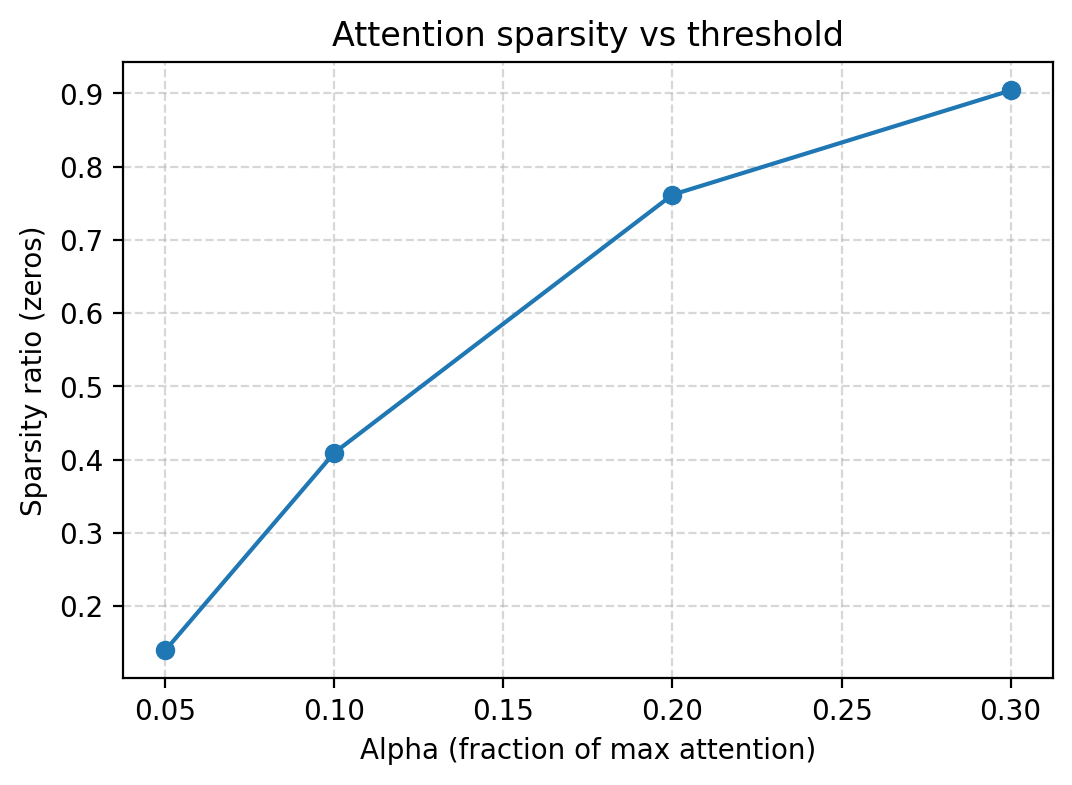
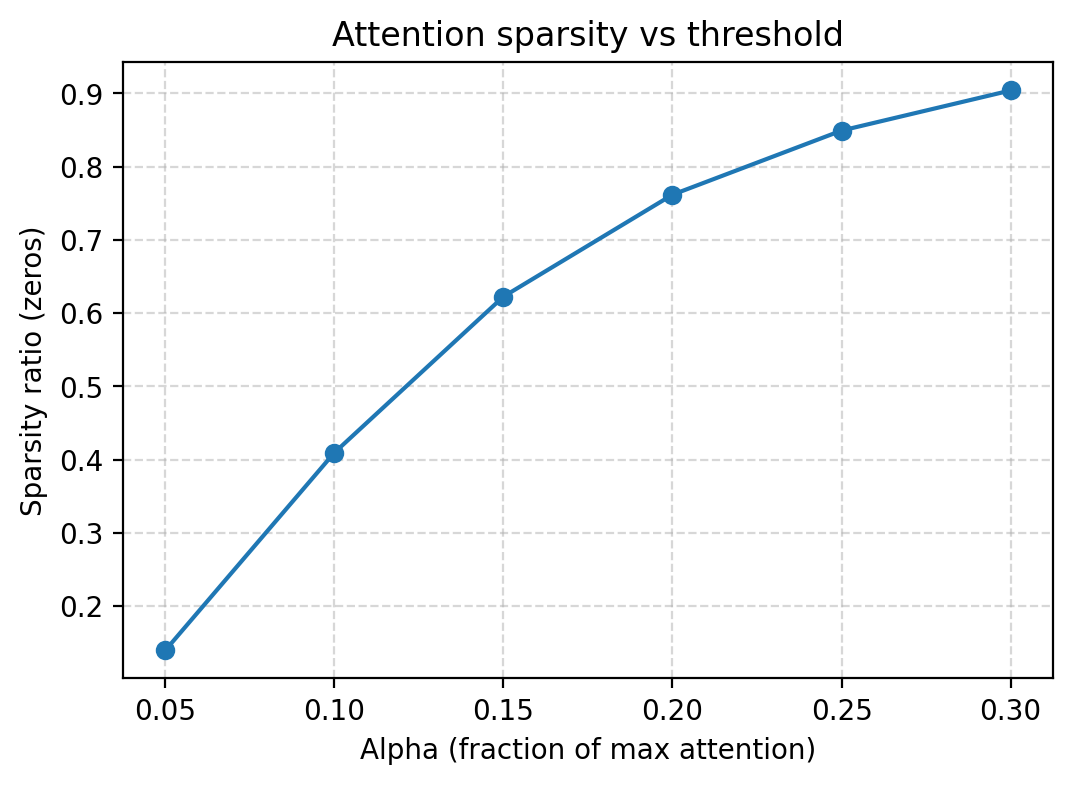
Add dynamic mask GIF + Pareto teaser scripts and visuals

Changed region(s): [[0.3386, 0.2446, 0.6157, 0.5503], [0.6465, 0.1223, 0.9235, 0.2446], [0.3078, 0.5503, 0.3386, 0.5809]]

diff --git a/python/pareto_prescreener.py b/python/pareto_prescreener.py
@@ -1,0 +1,94 @@
+"""
+Software-only Pareto teaser: sweep thresholds (alpha) and compute
+true sparsity, predicted sparsity (upper-bound mask), and IoU.
+
+Outputs:
+- CSV: docs/pareto_prescreener.csv
+- Plot: docs/img/pareto_prescreener.png (IoU vs predicted sparsity)
+"""
+
+import argparse
+import csv
+from pathlib import Path
+
+import matplotlib.pyplot as plt
+import numpy as np
+
+
+def parse_args():
+    p = argparse.ArgumentParser()
+    p.add_argument("--npz", required=True, help="Path to attention npz")
+    p.add_argument(
+        "--alpha-list",
+        type=str,
+        default="0.05,0.1,0.15,0.2,0.25,0.3",
+        help="Comma list of alphas (fraction of per-sample/layer/head max)",
+    )
+    p.add_argument("--csv-out", type=str, default="docs/pareto_prescreener.csv")
+    p.add_argument("--plot-out", type=str, default="docs/img/pareto_prescreener.png")
+    return p.parse_args()
+
+
+def compute_masks(attn, alpha):
+    max_vals = attn.max(axis=(-1, -2), keepdims=True)
+    true_mask = attn > (alpha * max_vals)
+
+    row_l1 = np.abs(attn).sum(axis=-1, keepdims=True)
+    col_l1 = np.abs(attn).sum(axis=-2, keepdims=True)
+    ub = row_l1 * col_l1
+    ub_max = ub.max(axis=(-1, -2), keepdims=True)
+    pred_mask = ub > (alpha * ub_max)
+    return true_mask, pred_mask
+
+
+def main():
+    args = parse_args()
+    attn = np.load(args.npz)["attn"]  # shape (N, L, H?, S, S)
+    # Merge optional head dim into samples dimension for simplicity
+    if attn.ndim == 5:
+        N, L, H, S, _ = attn.shape
+        attn = attn.reshape(N * L * H, S, S)
+    elif attn.ndim == 4:
+        N, L, S, _ = attn.shape
+        attn = attn.reshape(N * L, S, S)
+    else:
+        raise ValueError(f"Unexpected attention ndim {attn.ndim}")
+
+    alphas = [float(x) for x in args.alpha_list.split(",")]
+
+    rows = [("alpha", "true_sparsity", "pred_sparsity", "iou")]
+    pts = []
+    for alpha in alphas:
+        true_mask, pred_mask = compute_masks(attn, alpha)
+        iou = (np.logical_and(true_mask, pred_mask).sum()) / (
+            np.logical_or(true_mask, pred_mask).sum()
+        )
+        true_spars = 1.0 - true_mask.mean()
+        pred_spars = 1.0 - pred_mask.mean()
+        rows.append((alpha, true_spars, pred_spars, iou))
+        pts.append((pred_spars, iou, alpha))
+
+    Path(args.csv_out).parent.mkdir(parents=True, exist_ok=True)
+    with open(args.csv_out, "w", newline="") as f:
+        csv.writer(f).writerows(rows)
+
+    # Plot IoU vs predicted sparsity
+    plt.figure(figsize=(5, 4))
+    for pred_s, iou, alpha in pts:
+        plt.scatter(pred_s, iou, label=f"α={alpha}")
+        plt.text(pred_s + 0.01, iou, f"{alpha}", fontsize=8)
+    plt.xlabel("Predicted sparsity (fraction zeros)")
+    plt.ylabel("Mask IoU (pred vs true)")
+    plt.title("Prescreener trade-off (software)")
+    plt.grid(True, ls="--", alpha=0.5)
+    plt.ylim(0, 1.0)
+    plt.xlim(0, 1.0)
+    plt.legend()
+    Path(args.plot_out).parent.mkdir(parents=True, exist_ok=True)
+    plt.savefig(args.plot_out, dpi=200, bbox_inches="tight")
+    print(f"Wrote CSV to {args.csv_out}")
+    print(f"Wrote plot to {args.plot_out}")
+
+
+if __name__ == "__main__":
+    main()

diff --git a/python/make_mask_gif.py b/python/make_mask_gif.py
@@ -1,0 +1,82 @@
+"""
+Create an animated GIF showing how the prescreener mask changes per input.
+
+Frames: side-by-side attention heatmap and predicted mask for each sample.
+Supports attention dumps with shape (N,L,H,S,S) or (N,L,S,S).
+"""
+
+import argparse
+import io
+from pathlib import Path
+
+import imageio.v2 as imageio
+import matplotlib.pyplot as plt
+import numpy as np
+
+
+def parse_args():
+    p = argparse.ArgumentParser()
+    p.add_argument("--npz", required=True, help="Path to attention npz")
+    p.add_argument("--layer", type=int, default=0)
+    p.add_argument("--head", type=int, default=0)
+    p.add_argument("--alpha", type=float, default=0.1)
+    p.add_argument("--samples", type=int, default=16, help="Number of samples to animate")
+    p.add_argument("--start", type=int, default=0, help="Starting sample index")
+    p.add_argument("--out", type=str, default="docs/img/attn_mask_animation.gif")
+    return p.parse_args()
+
+
+def get_slice(attn, s, layer, head):
+    if attn.ndim == 5:  # (N,L,H,S,S)
+        return attn[s, layer, head]
+    elif attn.ndim == 4:  # (N,L,S,S)
+        return attn[s, layer]
+    else:
+        raise ValueError(f"Unexpected attention ndim {attn.ndim}")
+
+
+def make_frame(attn_slice, alpha):
+    max_val = attn_slice.max()
+    true_mask = attn_slice > (alpha * max_val)
+
+    row_l1 = np.abs(attn_slice).sum(axis=-1, keepdims=True)
+    col_l1 = np.abs(attn_slice).sum(axis=-2, keepdims=True)
+    ub = row_l1 * col_l1
+    ub_mask = ub > (alpha * ub.max())
+
+    fig, axs = plt.subplots(1, 2, figsize=(6, 3))
+    im0 = axs[0].imshow(attn_slice, cmap="viridis")
+    axs[0].set_title("Attention")
+    axs[0].axis("off")
+    plt.colorbar(im0, ax=axs[0], fraction=0.046, pad=0.04)
+
+    axs[1].imshow(ub_mask, cmap="Greys")
+    axs[1].set_title("Pred mask")
+    axs[1].axis("off")
+
+    plt.tight_layout()
+    buf = io.BytesIO()
+    plt.savefig(buf, format="png", dpi=150, bbox_inches="tight")
+    plt.close(fig)
+    buf.seek(0)
+    return imageio.imread(buf)
+
+
+def main():
+    args = parse_args()
+    data = np.load(args.npz)
+    attn = data["attn"]
+
+    frames = []
+    for s in range(args.start, min(args.start + args.samples, attn.shape[0])):
+        attn_slice = get_slice(attn, s, args.layer, args.head)
+        frames.append(make_frame(attn_slice, args.alpha))
+
+    out_path = Path(args.out)
+    out_path.parent.mkdir(parents=True, exist_ok=True)
+    imageio.mimsave(out_path, frames, fps=2)
+    print(f"Saved animation to {out_path} ({len(frames)} frames)")
+
+
+if __name__ == "__main__":
+    main()

diff --git a/README.md b/README.md
@@ -34,6 +34,8 @@ We will proceed phase-by-phase. Each phase has a checklist in `docs/phase_plan.m
 - Sparsity sweep plot: `python python/compute_sparsity.py --npz checkpoints/vit_tiny.attn.npz`
 - Prescreener IoU check: `python python/prescreener_sim.py --npz checkpoints/vit_tiny.attn.npz --alpha 0.1`
 - Visualize attention + masks: `python python/vis_attention.py --npz checkpoints/vit_tiny.attn.npz --sample 0 --layer 0 --head 0 --alpha 0.1` → saves to `docs/img/attn_s0_l0_h0.png`
+- Dynamic mask GIF: `python python/make_mask_gif.py --npz checkpoints/vit_tiny.attn.npz --layer 0 --alpha 0.1 --samples 8` → `docs/img/attn_mask_animation.gif`
+- Pareto teaser plot (IoU vs predicted sparsity): `python python/pareto_prescreener.py --npz checkpoints/vit_tiny.attn.npz --alpha-list 0.05,0.1,0.15,0.2,0.25,0.3` → `docs/img/pareto_prescreener.png`
 
 ### Current status (Phase 0 → 1)
 - CIFAR-10 ViT baseline trained on CPU: best val_acc ≈ 0.709.
